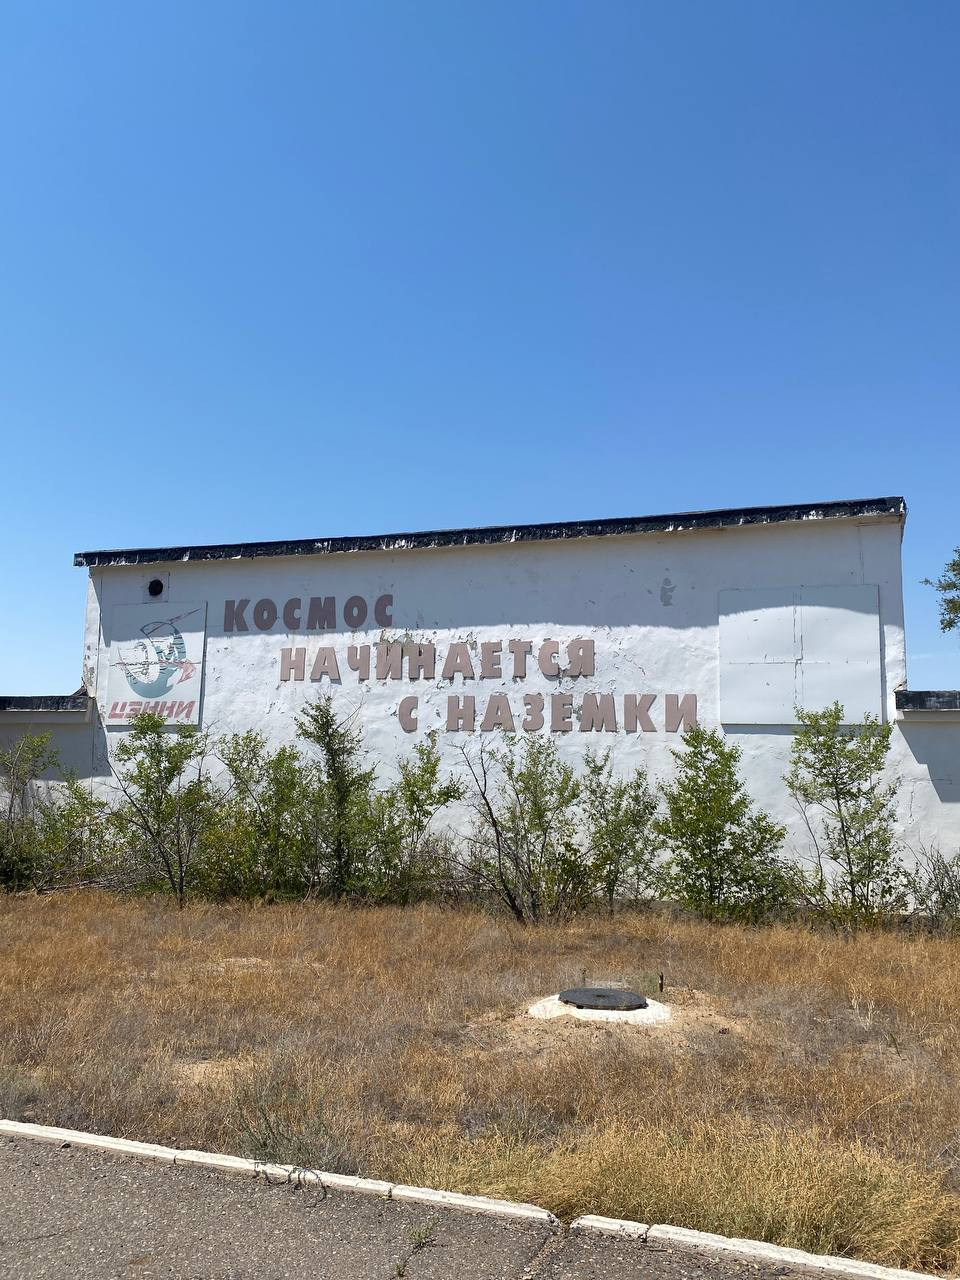
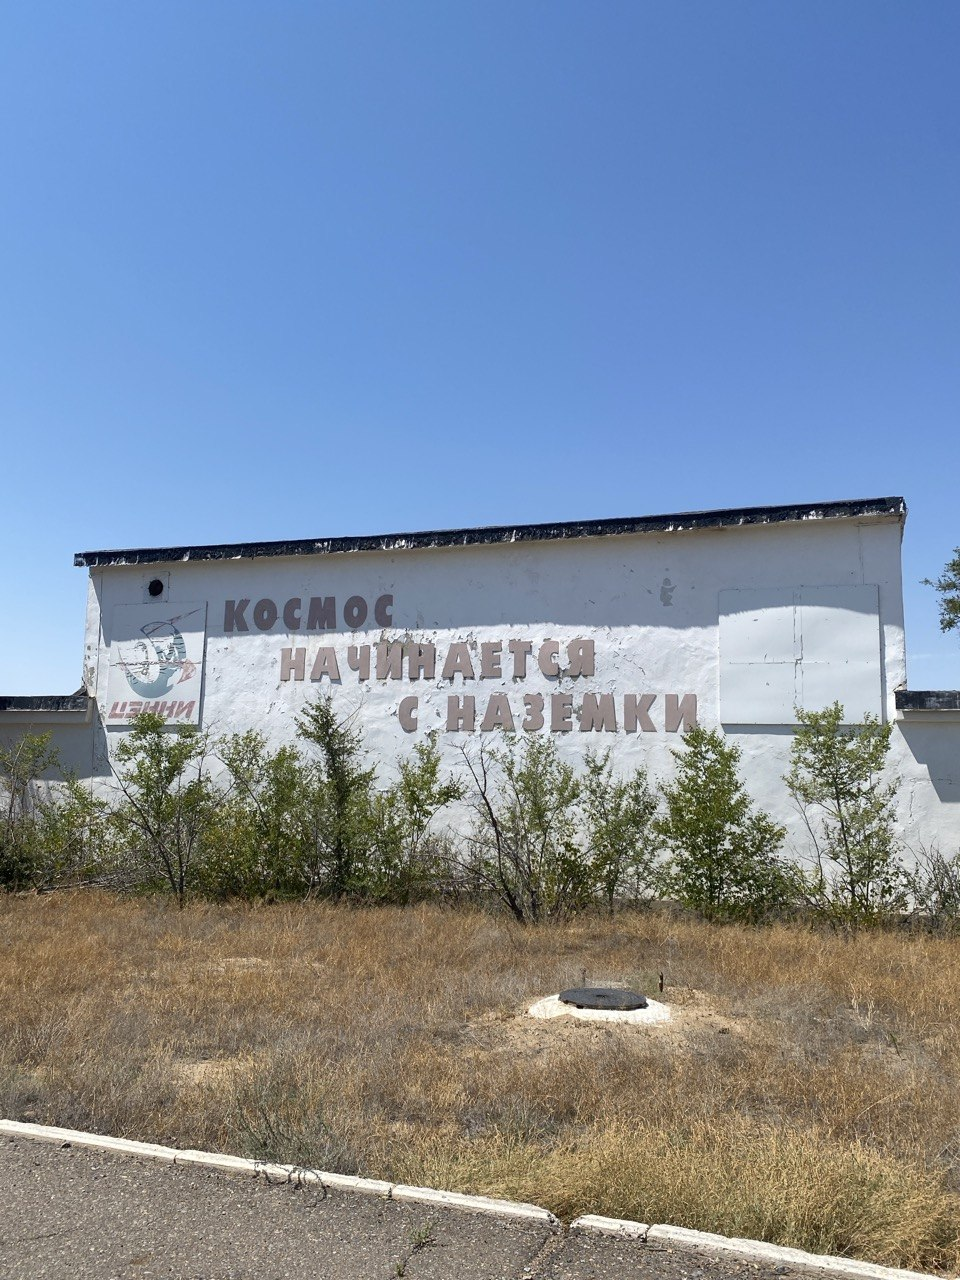
Финальный слайд: фото «Космос начинается с наземки» рядом с видео

diff --git a/Экспедиция на Байконур.html b/Экспедиция на Байконур.html
@@ -1269,7 +1269,15 @@
     <span class="rocket">🚀</span>
     <h1>Спасибо!</h1>
     <p class="sub" style="margin-left:auto;margin-right:auto">Космос по любви · Байконур, июль 2026</p>
-    <video src="img/final.mp4" controls playsinline preload="metadata" style="display:block;margin:1.6rem auto 0;max-width:min(92%,720px);max-height:44vh;width:auto;border-radius:16px;border:1px solid var(--line);box-shadow:0 16px 44px rgba(0,0,0,.5)"></video>
+    <div style="display:flex;gap:1.4rem;justify-content:center;align-items:flex-start;flex-wrap:wrap;margin-top:1.5rem">
+      <figure style="margin:0">
+        <video src="img/final.mp4" controls playsinline preload="metadata" style="display:block;height:clamp(220px,44vh,440px);width:auto;max-width:100%;border-radius:16px;border:1px solid var(--line);box-shadow:0 16px 44px rgba(0,0,0,.5)"></video>
+      </figure>
+      <figure style="margin:0">
+        <img src="img/nazemka.jpg" alt="Здание с надписью «Космос начинается с наземки»" style="display:block;height:clamp(220px,44vh,440px);width:auto;max-width:100%;object-fit:cover;border-radius:16px;border:1px solid var(--line);box-shadow:0 16px 44px rgba(0,0,0,.5)">
+        <figcaption style="color:var(--muted);font-size:.95rem;margin-top:.5rem">«Космос начинается с наземки»</figcaption>
+      </figure>
+    </div>
   </div>
 </section>
 